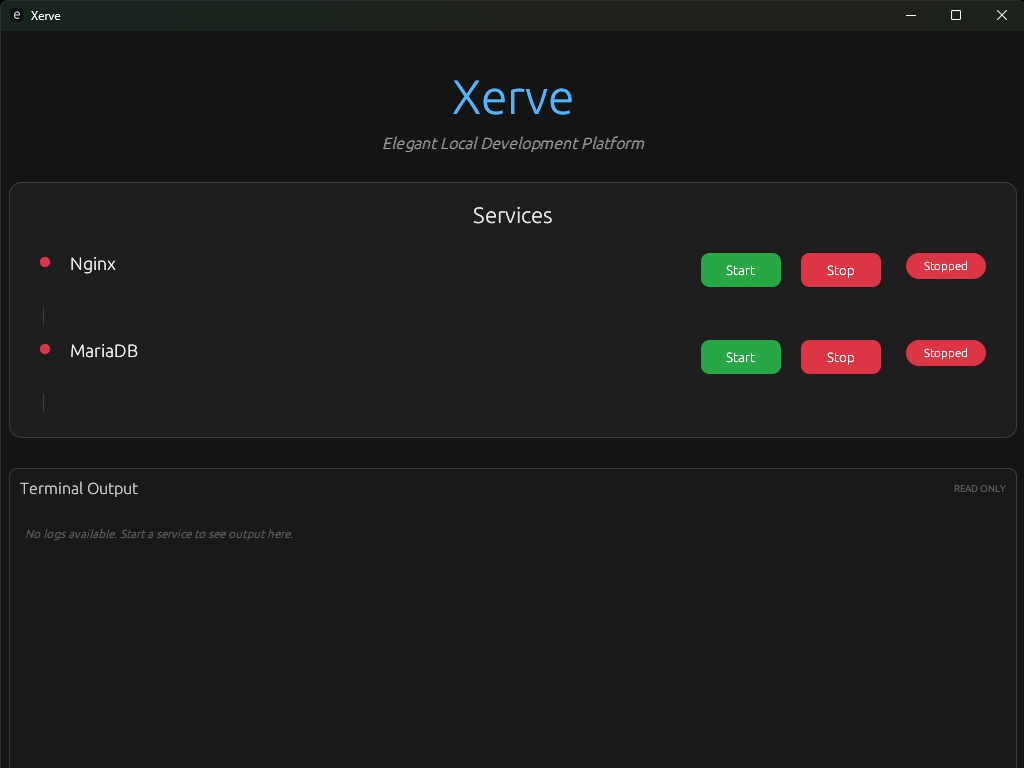
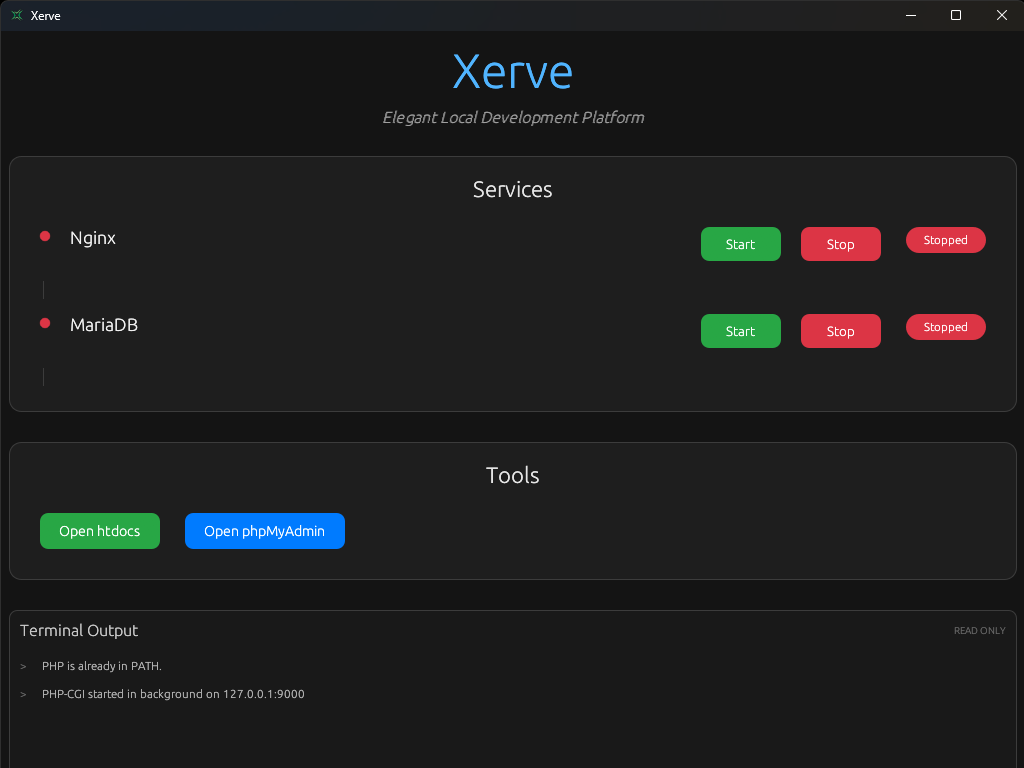
docs: update CHANGELOG.md and add new screenshots
- Update CHANGELOG.md to reflect version 1.0.2 changes

- Add new screenshot3.png to documentation

- Update existing screenshot.png

diff --git a/CHANGELOG.md b/CHANGELOG.md
@@ -5,35 +5,31 @@ All notable changes to this project will be documented in this file.
 The format is based on [Keep a Changelog](https://keepachangelog.com/en/1.0.0/),
 and this project adheres to [Semantic Versioning](https://semver.org/spec/v2.0.0.html).
 
-## [1.0.0] - 2025-08-06
+## [1.0.2] - 2025-08-10
 
 ### Added
-- Initial release of Xerve - A Local Development Platform
-- Service management for Nginx and MariaDB
-- Graphical user interface built with eframe/egui
-- Automatic service initialization and cleanup
-- Cross-platform support (Windows focused in this release)
-- Modular architecture for easy extension
+- PHP 8.4.11 integration with automatic PATH configuration
+- PHP-CGI background service with FastCGI support on port 9000
+- phpMyAdmin integration for MariaDB management
+- Quick access buttons for htdocs folder and phpMyAdmin in UI
+- Automatic MariaDB data directory initialization
 
-### Features
-- **Service Management**: Start, stop, and monitor Nginx and MariaDB services
-- **Automatic Initialization**: Automatically initializes MariaDB data directory if not present
-- **Graceful Shutdown**: Ensures all services are properly stopped when the application exits
-- **Status Monitoring**: Real-time service status display with visual indicators
-- **Process Tracking**: Tracks service process IDs for more reliable management
-- **Error Handling**: Comprehensive error handling and user feedback
+### Fixed
+- Race conditions in service status management
+- Mutex poisoning issues with improved error handling
+- Process waiting timeouts to prevent hanging operations
+- Time-of-check to time-of-use (TOCTOU) vulnerabilities
+- Thread leak prevention in process output handling
+- Inconsistent process names for MariaDB service management
+- Improved error messages for better debugging experience
 
-### Technical Details
-- Built with Rust for performance and safety
-- Uses eframe/egui for cross-platform GUI
-- Modular design with separate modules for application logic, services, and UI
-- Proper resource management and cleanup procedures
-- Release build optimizations for better performance
-
-### Known Limitations
-- Currently focused on Windows platform support
-- Requires manual installation of Nginx and MariaDB in the resource directory
-- MariaDB root user has no password by default
+### Improved
+- Service management with more robust start/stop operations
+- PATH environment variable handling with permanent and session options
+- Process output capture with proper thread management
+- UI with additional tools section for quick access to development resources
+- Security with better file system access handling
+- Stability with comprehensive error handling and recovery mechanisms
 
 ## [1.0.1] - 2025-08-07
 
@@ -64,3 +60,33 @@ and this project adheres to [Semantic Versioning](https://semver.org/spec/v2.0.0
 - Added helper methods for atomic service status operations (is_running, is_stopped, update_status)
 - Enhanced service cleanup with timeout-based waiting mechanism
 - Improved process spawning and command execution with better error handling
+
+## [1.0.0] - 2025-08-06
+
+### Added
+- Initial release of Xerve - A Local Development Platform
+- Service management for Nginx and MariaDB
+- Graphical user interface built with eframe/egui
+- Automatic service initialization and cleanup
+- Cross-platform support (Windows focused in this release)
+- Modular architecture for easy extension
+
+### Features
+- **Service Management**: Start, stop, and monitor Nginx and MariaDB services
+- **Automatic Initialization**: Automatically initializes MariaDB data directory if not present
+- **Graceful Shutdown**: Ensures all services are properly stopped when the application exits
+- **Status Monitoring**: Real-time service status display with visual indicators
+- **Process Tracking**: Tracks service process IDs for more reliable management
+- **Error Handling**: Comprehensive error handling and user feedback
+
+### Technical Details
+- Built with Rust for performance and safety
+- Uses eframe/egui for cross-platform GUI
+- Modular design with separate modules for application logic, services, and UI
+- Proper resource management and cleanup procedures
+- Release build optimizations for better performance
+
+### Known Limitations
+- Currently focused on Windows platform support
+- Requires manual installation of Nginx and MariaDB in the resource directory
+- MariaDB root user has no password by default
